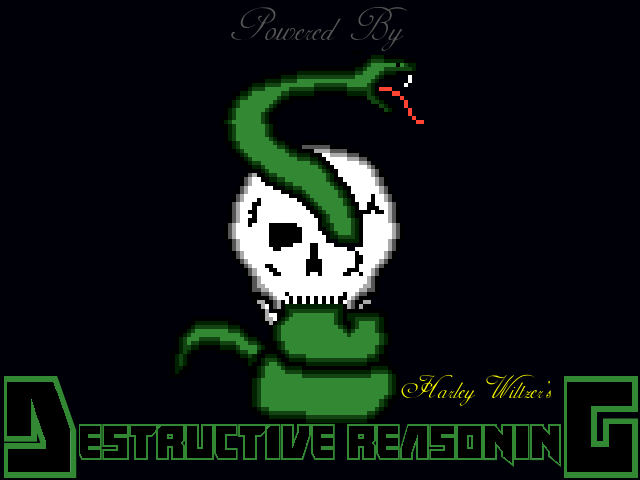
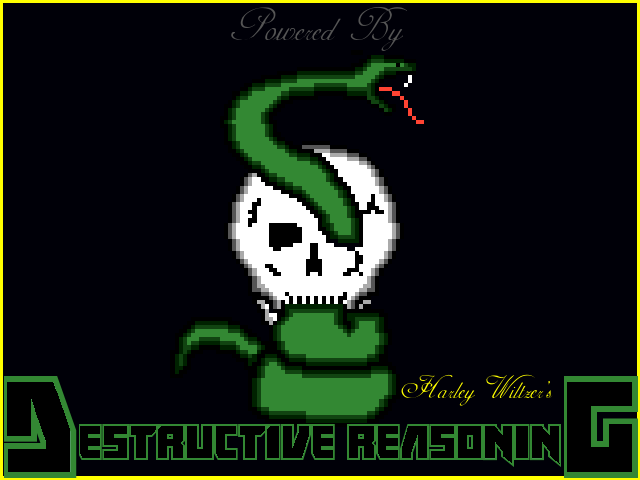
Fixed Tiger Generator Spawning Positions

Changed region(s): [[0.0, 0.0, 1.0, 1.0], [0.9688, 0.8438, 1.0, 0.875]]

diff --git a/Tigarmageddon 2D/Main.cpp b/Tigarmageddon 2D/Main.cpp
@@ -99,7 +99,7 @@ Main::Main(int width, int height) :
 		stones.push_back(new GameObject(float(levelWidth - 32),float(c * 32),stoneSprite));
 	}
 
-	srand(time(NULL));
+	//srand(time(NULL));
 	for(int c = 0; c < number_of_stones; c++)
 	{
 		float xx = float(rand()%levelWidth);
@@ -118,30 +118,43 @@ Main::Main(int width, int height) :
 	
 	srand(time(NULL));
 
-	tgs.push_back(std::shared_ptr<TigerGenerator>(new TigerGenerator(rand()%levelWidth,rand()%levelHeight,&xOffset,&yOffset,screen->getRenderer(),&player)));
+	//tgs.push_back(std::shared_ptr<TigerGenerator>(new TigerGenerator(rand()%levelWidth,rand()%levelHeight,&xOffset,&yOffset,screen->getRenderer(),&player)));
 
 	for(int c = 0; c < 4; c++)
 	{
-		Position p;
+		Position p = {rand()%levelWidth, rand()%levelHeight};
 		for(int j = 0; j < tgs.size(); j++)
 		{
 			do
 			{
 				p.x = rand()%levelWidth;
 				p.y = rand()%levelHeight;
+				for(int q = 0; q < Main::stones.size(); q++)
+				{
+					Position pq = {Main::stones[q]->getX(),Main::stones[q]->getY()};
+					while(p == pq)
+					{
+						p.x = rand()%levelWidth;
+						p.y = rand()%levelHeight;
+					}
+				}
 			}
-			while(p == tgs[j].get()->pos);
+			while((p == tgs[j].get()->pos));
 		}
-		for(int j = 0; j < stones.size(); j++)
+		if(tgs.size() == 0)
 		{
-			Position sp = {stones[j]->getX(),stones[j]->getY()};
-			while(p == sp)
+			for(int q = 0; q < Main::stones.size(); q++)
 			{
-				p.x = rand()%levelWidth;
-				p.y = rand()%levelHeight;
+				Position pq = {Main::stones[q]->getX(), Main::stones[q]->getY()};
+				while(p == pq)
+				{
+					p.x = rand()%levelWidth;
+					p.y = rand()%levelHeight;
+				}
 			}
 		}
 		tgs.push_back(std::shared_ptr<TigerGenerator>(new TigerGenerator(p.x,p.y,&xOffset,&yOffset,screen->getRenderer(), &player)));
+		printf("[TIGER GEN POSITION] %d, %d\n",p.x,p.y);
 	}
 }
 

diff --git a/Tigarmageddon 2D/Source.cpp b/Tigarmageddon 2D/Source.cpp
@@ -35,7 +35,7 @@
 int main(int argc, char** argv)
 {
 	SDL_Init(SDL_INIT_EVERYTHING);
-	TimedSplashScreen* splash = new TimedSplashScreen("PoweredByDestructiveReasoning.png",WIDTH,HEIGHT,4000);
+	TimedSplashScreen* splash = new TimedSplashScreen("PoweredByDestructiveReasoning.png",640,480,5000);
 	delete splash;
 	MainMenu* mainMenu = new MainMenu(WIDTH,HEIGHT);
 	mainMenu->menuLoop();
